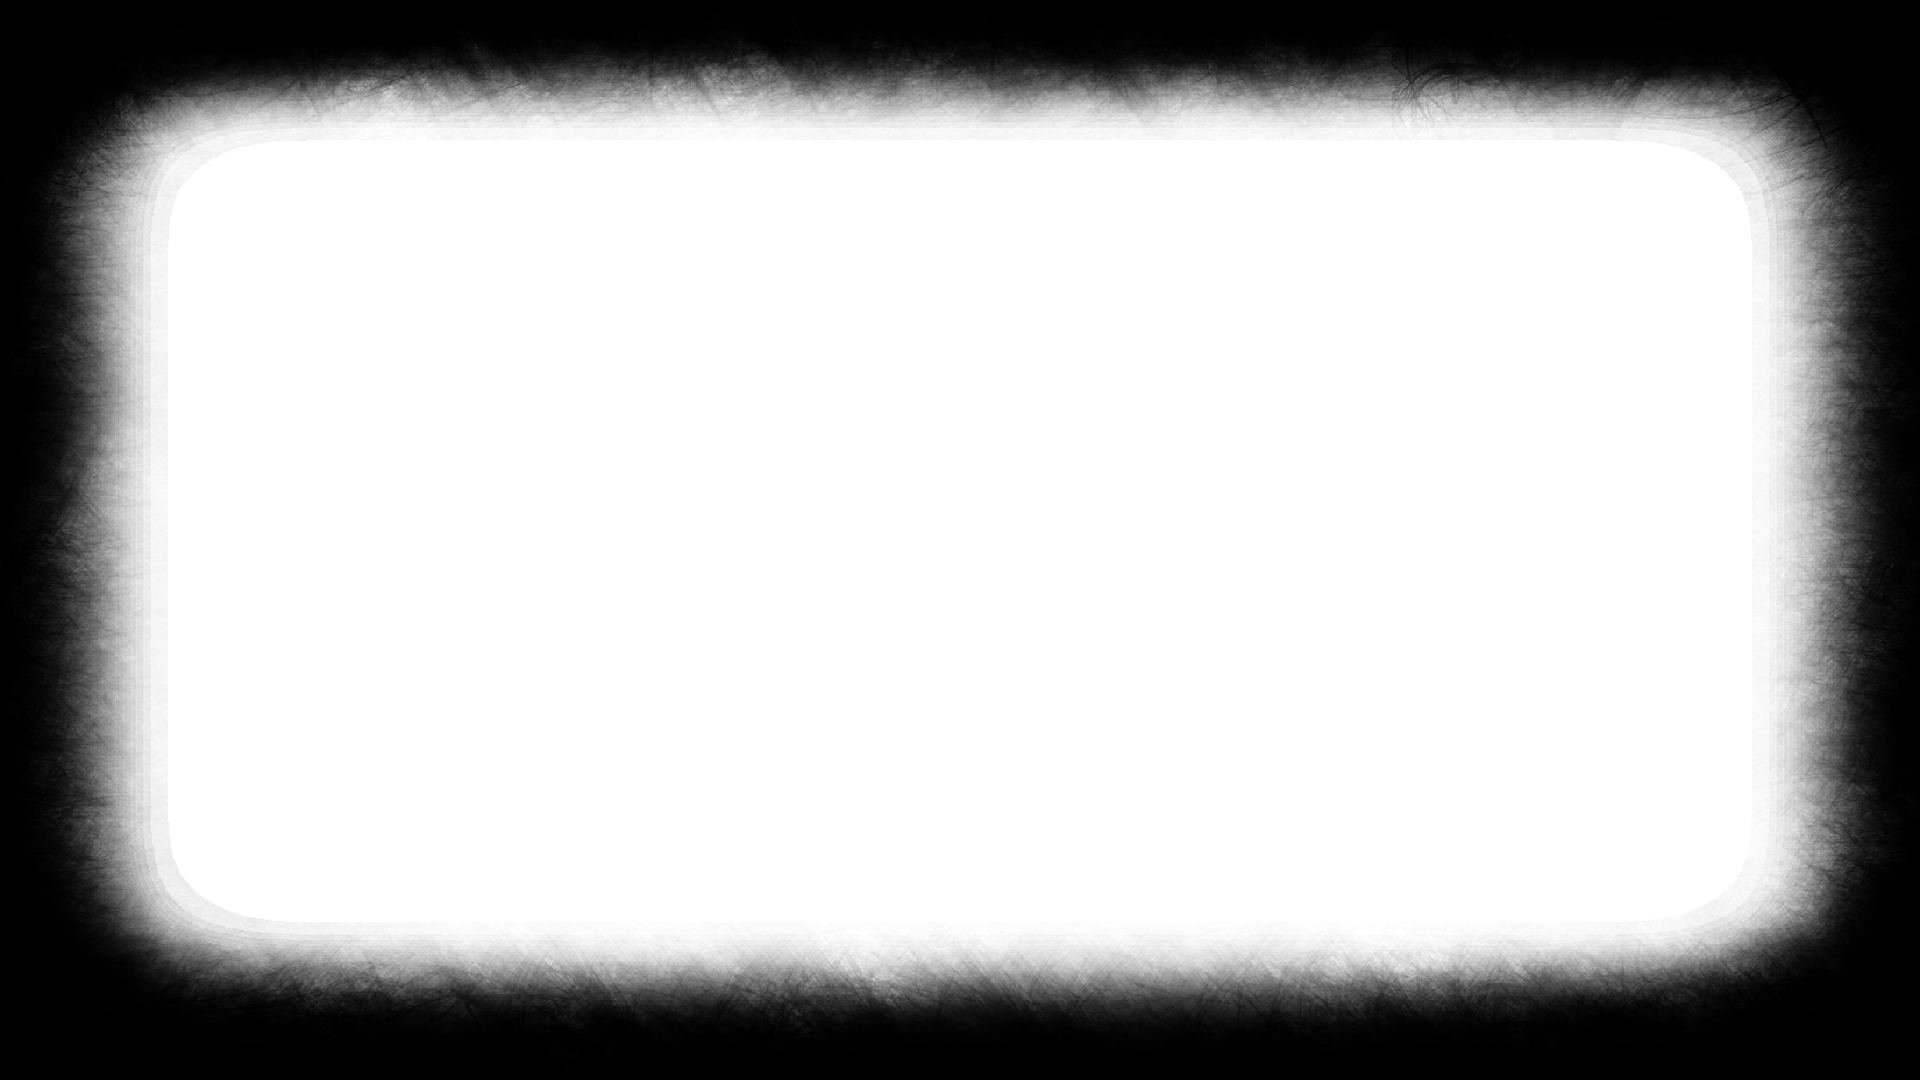
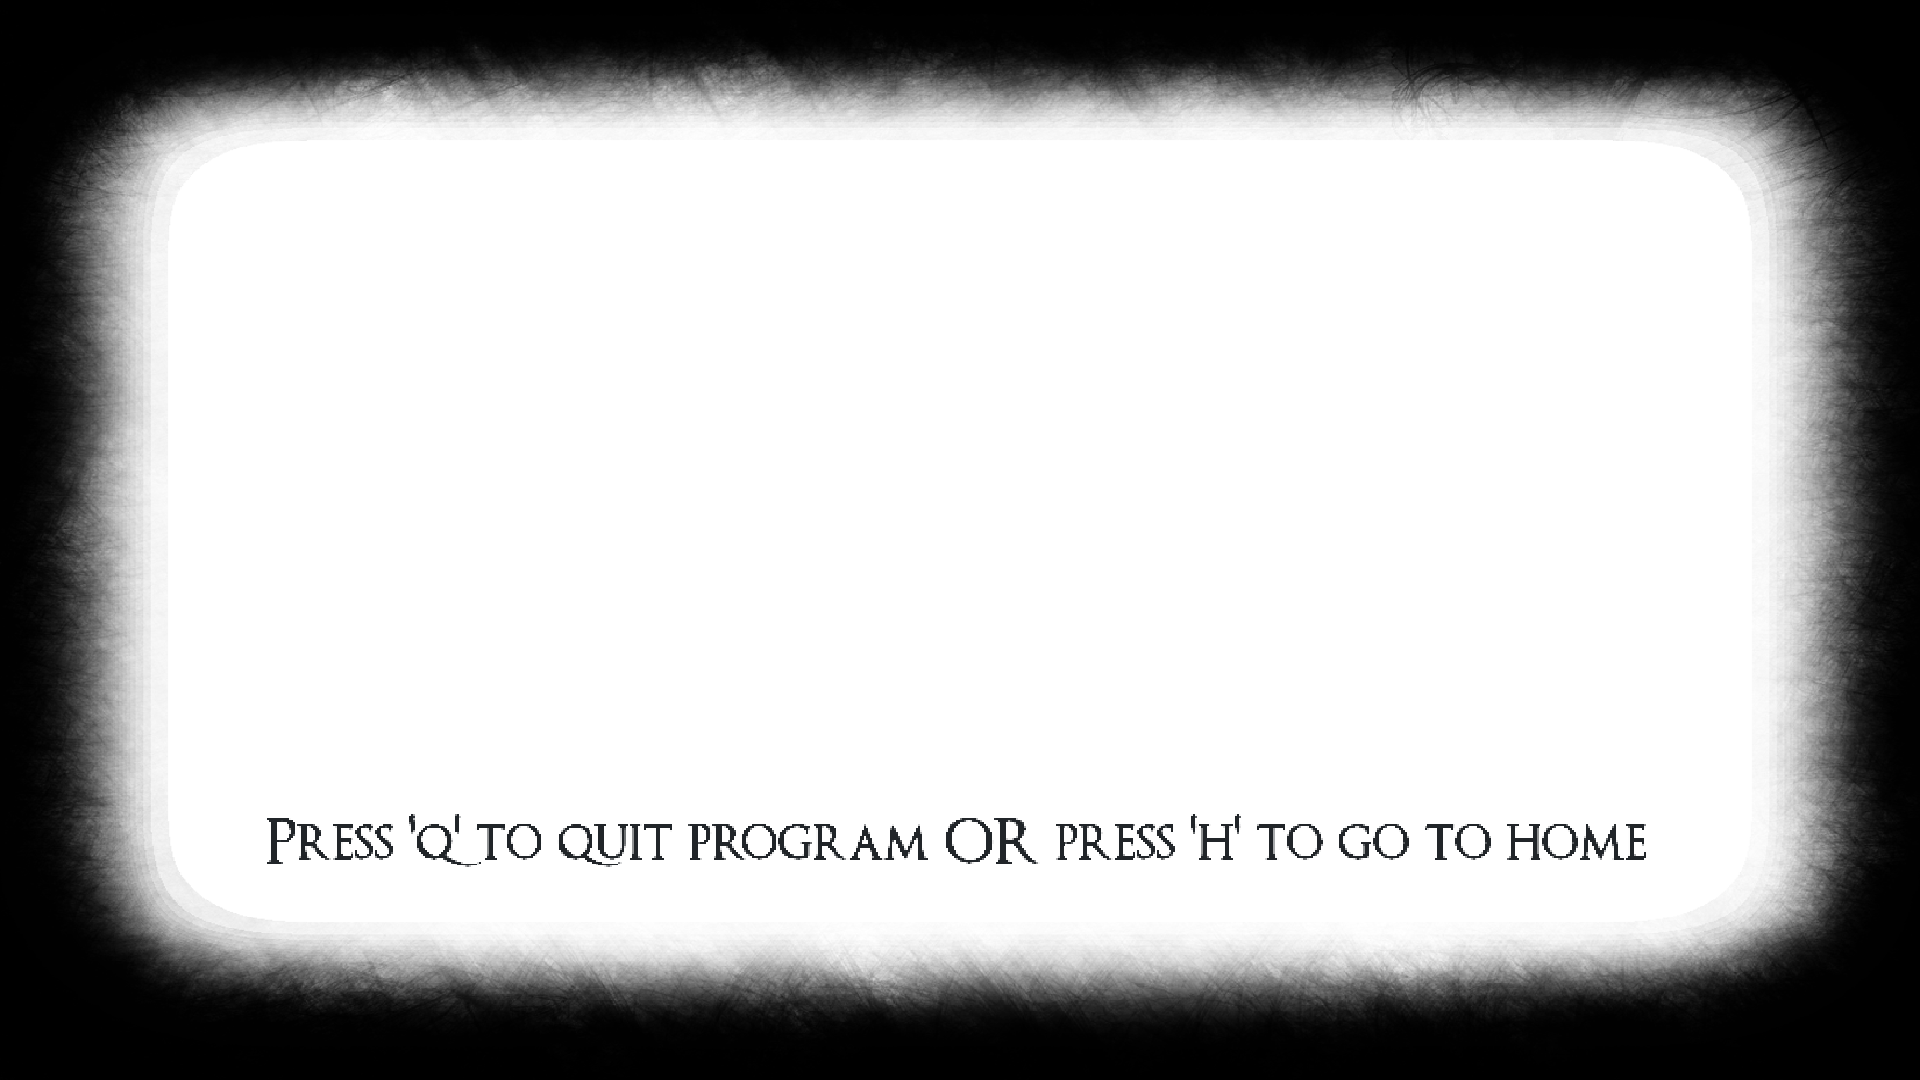
Add input for goto home or quit menu afet dead

Changed region(s): [[0.125, 0.7333, 0.875, 0.7944]]

diff --git a/src/menu/dead/dead_screen.c b/src/menu/dead/dead_screen.c
@@ -14,8 +14,7 @@ void update_dead(__attribute__((unused)) player_t *player,
 {
     object_t *dead_message = dico_t_get_value(win->components, "dead_message");
     object_t *dead_screen = dico_t_get_value(win->components, "dead_screen");
-    if (dead_message == NULL || dead_message->is_visible == true)
-    {
+    if (dead_message == NULL || dead_message->is_visible == true) {
         return;
     }
     dead_message->is_visible = true;
@@ -25,8 +24,10 @@ void update_dead(__attribute__((unused)) player_t *player,
 static bool can_wait_for_draw(object_t *object, float *time_elapsed,
     float delta_time, bool *can_draw)
 {
-    if (object->is_visible == false)
+    if (object == NULL || object->is_visible == false ||
+            time_elapsed == NULL || can_draw == NULL) {
         return false;
+    }
     *time_elapsed += delta_time;
     if (*can_draw == false && *time_elapsed < 2.55) {
         return false;
@@ -37,26 +38,38 @@ static bool can_wait_for_draw(object_t *object, float *time_elapsed,
     return true;
 }
 
+static void change_opacity(float *time_elapsed, sfColor *opacity,
+    player_t *player, object_t *object)
+{
+    *time_elapsed -= 0.05;
+    if (opacity->a + 5 >= 255) {
+        opacity->a = 255;
+        player->state = DIE;
+    } else {
+        opacity->a += 5;
+    }
+    sfSprite_setColor(object->drawable.sprite, *opacity);
+}
+
 void update_dead_screen(object_t *object,
-    __attribute__((unused)) scene_t *scene,
-    __attribute__((unused)) window_t *window, float delta_time)
+    __attribute__((unused)) scene_t *scene, window_t *window, float delta_time)
 {
     static float time_elapsed = 0;
-    sfColor opacity = sfSprite_getColor(object->drawable.sprite);
+    sfColor opacity = sfBlue;
+    player_t *player = NULL;
     static bool can_draw = false;
 
     if (can_wait_for_draw(object, &time_elapsed, delta_time,
             &can_draw) != true) {
         return;
     }
-    while (time_elapsed >= 0.05)
-    {
-        time_elapsed -= 0.05;
-        if (opacity.a + 5 >= 255)
-            opacity.a = 255;
-        else
-            opacity.a += 5;
-        sfSprite_setColor(object->drawable.sprite, opacity);
+    opacity = sfSprite_getColor(object->drawable.sprite);
+    player = (player_t *) dico_t_get_value(window->components, "player");
+    if (player == NULL || opacity.a == 255) {
+        return;
+    }
+    while (time_elapsed >= 0.05) {
+        change_opacity(&time_elapsed, &opacity, player, object);
     }
 }
 
@@ -70,8 +83,7 @@ void update_dead_message(object_t *object,
     if (object->is_visible == false)
         return;
     time_elapsed += delta_time;
-    while (time_elapsed >= 0.05)
-    {
+    while (time_elapsed >= 0.05) {
         time_elapsed -= 0.05;
         if (opacity.a + 5 >= 255)
             opacity.a = 255;

diff --git a/src/menu/dead/configure_dead_screen.c b/src/menu/dead/configure_dead_screen.c
@@ -24,6 +24,30 @@ static void configure_color_for_dead_screen(object_t *dead_message,
     sfSprite_setColor(dead_screen->drawable.sprite, color[1]);
 }
 
+void dead_event_input(object_t *object, scene_t *scene,
+    window_t *window, set_event_t *event)
+{
+    player_t *player = NULL;
+
+    if (object == NULL || object->components == NULL ||
+            scene == NULL || window == NULL || event == NULL ||
+                event->input_key.event_type != KEY) {
+        return;
+    }
+    player = (player_t *) dico_t_get_value(window->win, "player");
+    if (player == NULL || player->state != DIE) {
+        return;
+    }
+    if (event->input_key.event_code.key == sfKeyQ) {
+        sfRenderWindow_close(window->win);
+        return;
+    }
+    if (event->input_key.event_code.key == sfKeyH) {
+        window_change_scene(window, "MAIN MENU");
+        return;
+    }
+}
+
 int init_dead_menu(window_t *win, scene_t *scene)
 {
     player_t *player = dico_t_get_value(win->components, "player");
@@ -40,6 +64,10 @@ int init_dead_menu(window_t *win, scene_t *scene)
         (sfIntRect) {0, 0, 1920, 1080}, (sfVector2f) {960, 540}) != BGS_OK) {
         return RET_ERR_INPUT;
     }
+    event_add_node(create_event(dead_event_input, false, dead_message,
+        NULL), (node_params_t) {sfMouseLeft, sfKeyQ, KEY});
+    event_add_node(create_event(dead_event_input, false, dead_message,
+        NULL), (node_params_t) {sfMouseLeft, sfKeyH, KEY});
     configure_color_for_dead_screen(dead_message, dead_screen);
     window_add_component(win, dead_message, "dead_message", NULL);
     window_add_component(win, dead_screen, "dead_screen", NULL);

diff --git a/src/player/update/update_movement.c b/src/player/update/update_movement.c
@@ -45,6 +45,7 @@ static int change_player_pos(player_t *player, float delta_time, int speed)
             break;
         case UP:
             player->obj->bigdata.sprite_bigdata.pos.y -= delta_time * speed;
+            player->state = DYING;
             break;
         default:
             break;
